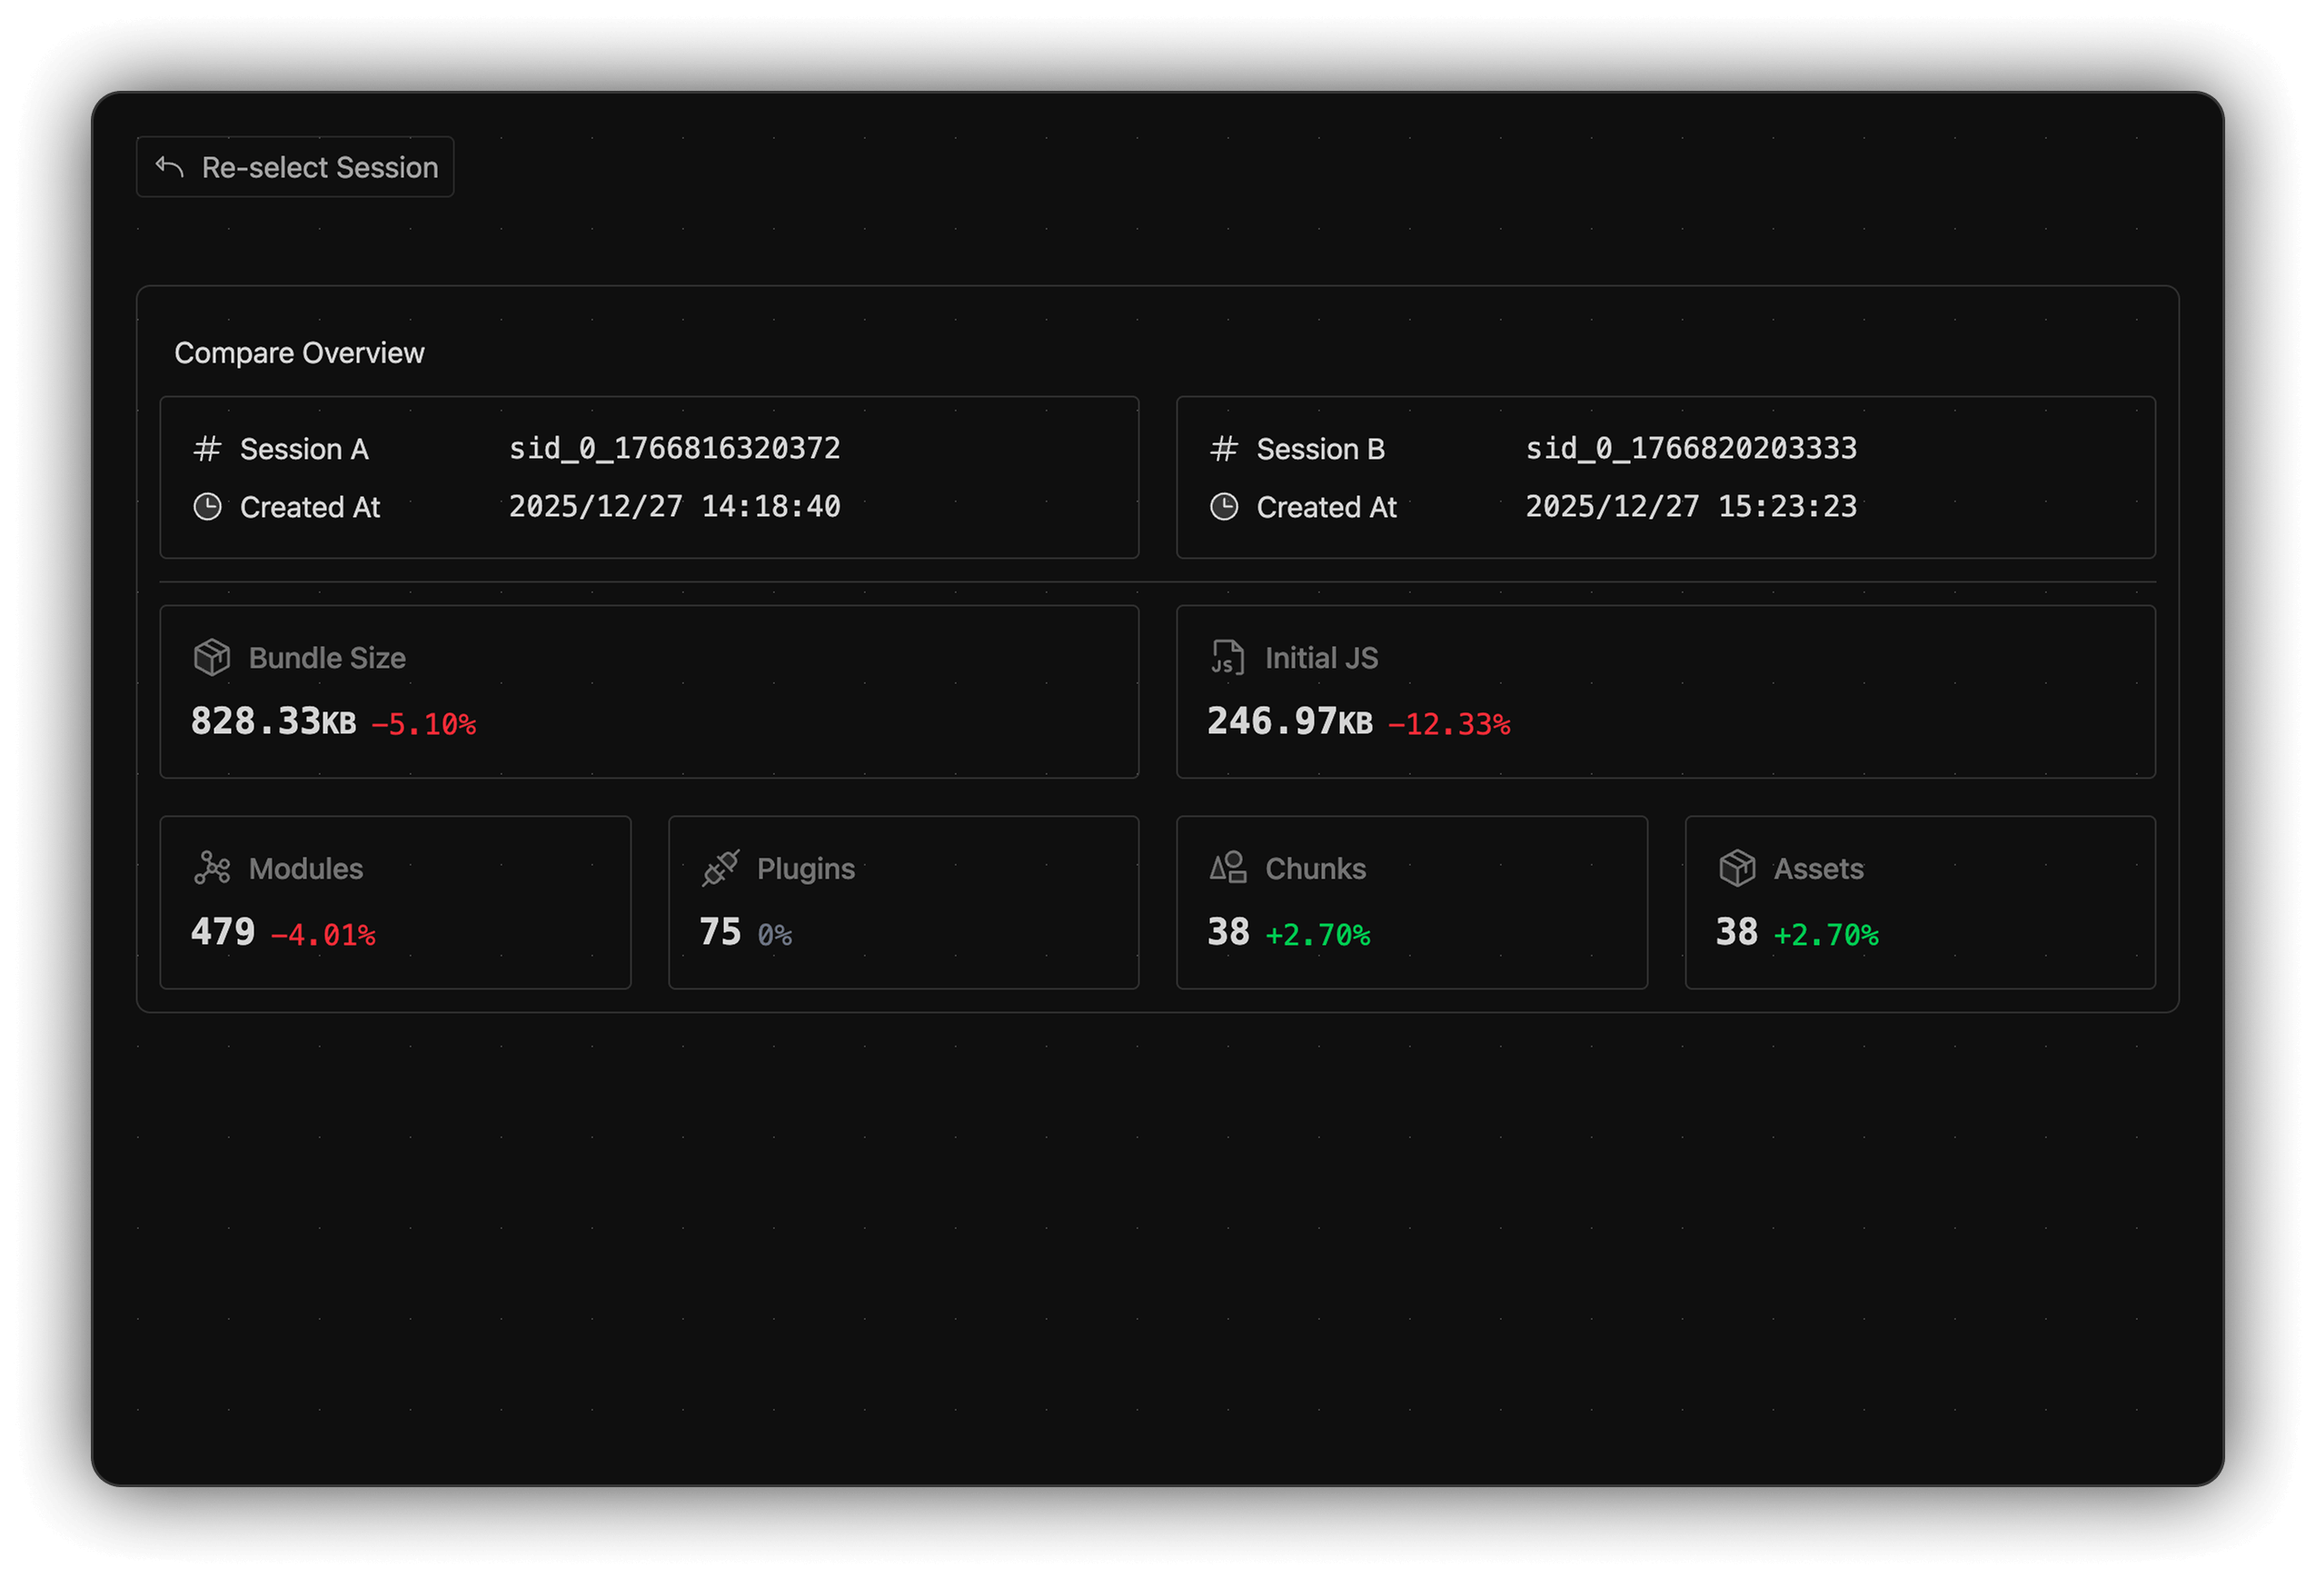
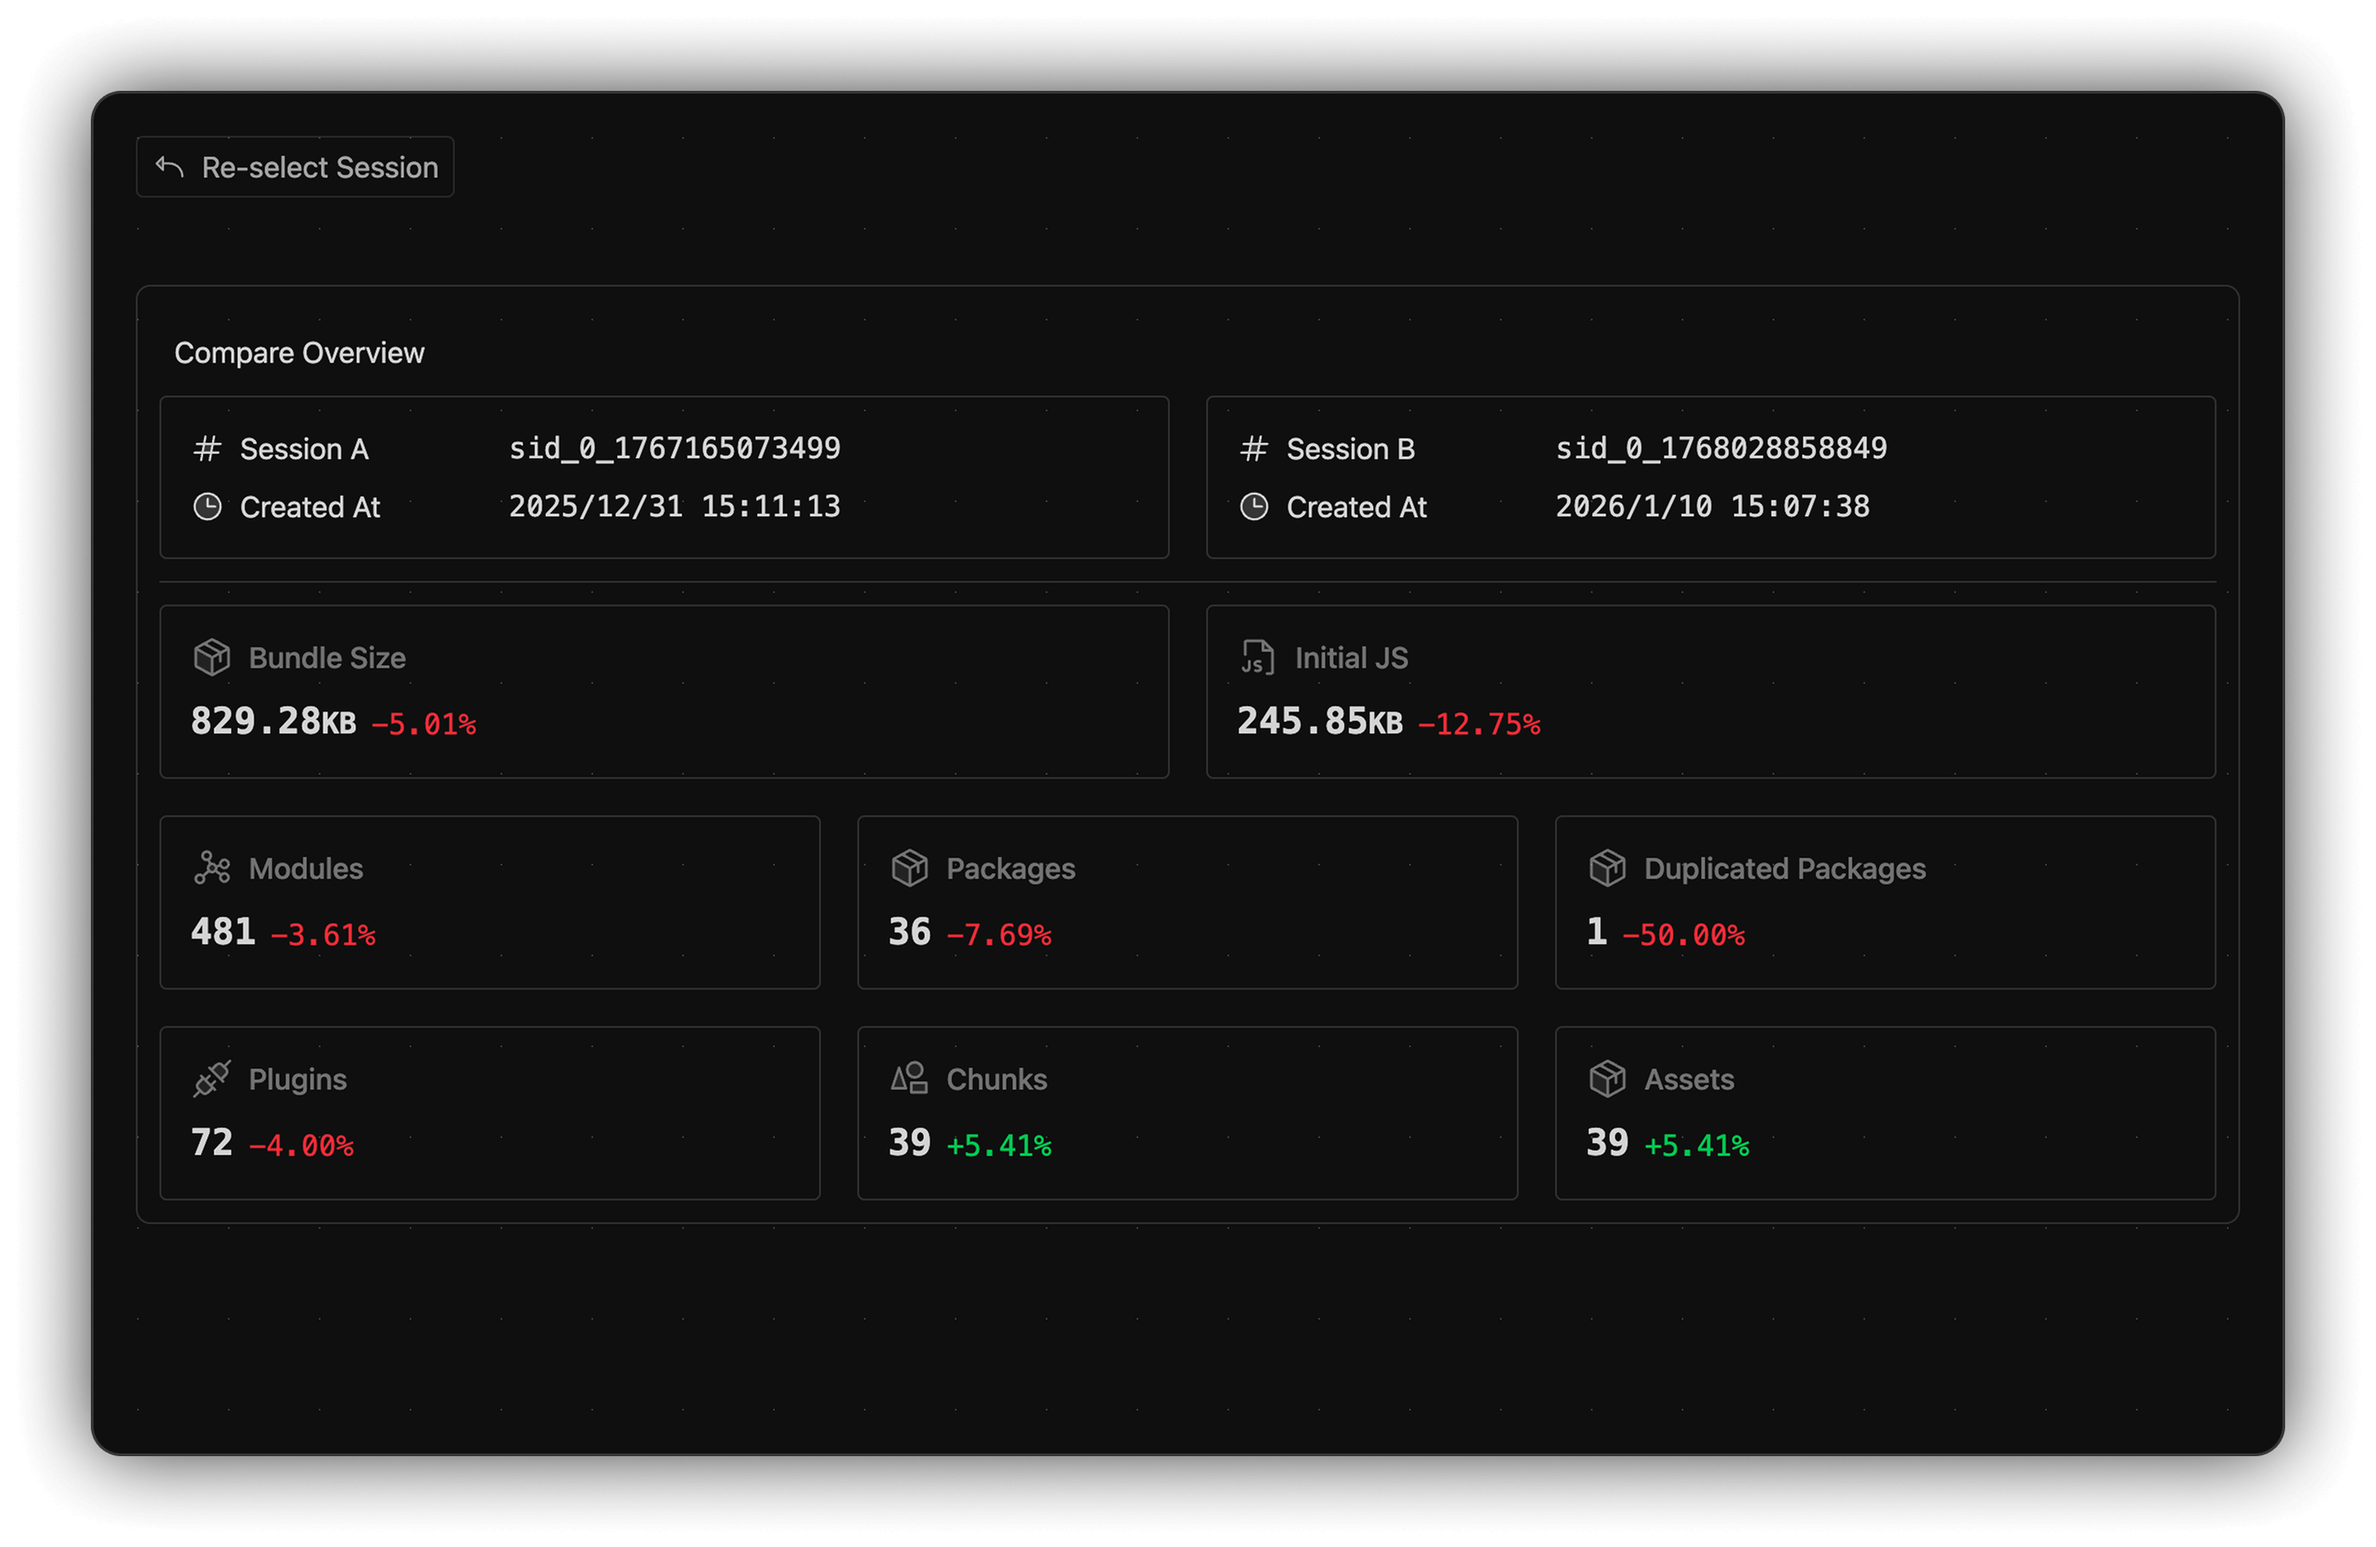
feat(vite): packages info for session compare (#162)

diff --git a/packages/vite/src/app/pages/compare/[sessions]/index.vue b/packages/vite/src/app/pages/compare/[sessions]/index.vue
@@ -11,16 +11,31 @@ const params = useRoute().params as {
 
 const rpc = useRpc()
 const sessions = ref<SessionCompareContext[]>([])
+const packages = ref<{ total: number, duplicated: number }[]>([])
+
+async function getPackages(id: string) {
+  const packages = await rpc.value.call('vite:rolldown:get-packages', { session: id })
+  const duplicatedPackages = packages.filter(p => p.duplicated)
+  return {
+    total: packages.length,
+    duplicated: duplicatedPackages.length,
+  }
+}
 
 onMounted(async () => {
   isLoading.value = true
+  const sessionIds = params.sessions.split(',')
 
-  const summary = await rpc.value.call(
-    'vite:rolldown:get-session-compare-summary',
-    { sessions: params.sessions.split(',') },
-  )
+  const [summary, ..._packages] = await Promise.all([
+    rpc.value.call(
+      'vite:rolldown:get-session-compare-summary',
+      { sessions: sessionIds },
+    ),
+    ...sessionIds.map(id => getPackages(id)),
+  ])
 
   sessions.value = summary
+  packages.value = _packages
 
   isLoading.value = false
 })
@@ -59,6 +74,20 @@ const comparisonMetrics = computed(() => {
       icon: 'i-ph-graph-duotone',
       current: sessionB?.modules ?? 0,
       previous: sessionA?.modules ?? 0,
+    },
+    {
+      name: 'Packages',
+      description: 'Total number of packages',
+      icon: 'i-ph-package-duotone',
+      current: packages.value?.[1]?.total ?? 0,
+      previous: packages.value?.[0]?.total ?? 0,
+    },
+    {
+      name: 'Duplicated Packages',
+      description: 'Total number of duplicated packages',
+      icon: 'i-ph-package-duotone',
+      current: packages.value?.[1]?.duplicated ?? 0,
+      previous: packages.value?.[0]?.duplicated ?? 0,
     },
     {
       name: 'Plugins',
@@ -100,8 +129,8 @@ const comparisonMetrics = computed(() => {
       </div>
       <!-- meta info -->
       <CompareSessionMeta :sessions="normalizedSessions" />
-      <div grid="~ cols-4 gap5" w-full pt3>
-        <div v-for="(item, index) of comparisonMetrics" :key="item.name" :class="index < 2 ? 'col-span-2' : 'col-span-1'" border="~ base rounded" p4 flex="~ col" gap2>
+      <div grid="~ cols-6 gap5" w-full pt3>
+        <div v-for="(item, index) of comparisonMetrics" :key="item.name" :class="index < 2 ? 'col-span-3' : 'col-span-2'" border="~ base rounded" p4 flex="~ col" gap2>
           <CompareMetricCard v-bind="item" />
         </div>
       </div>
